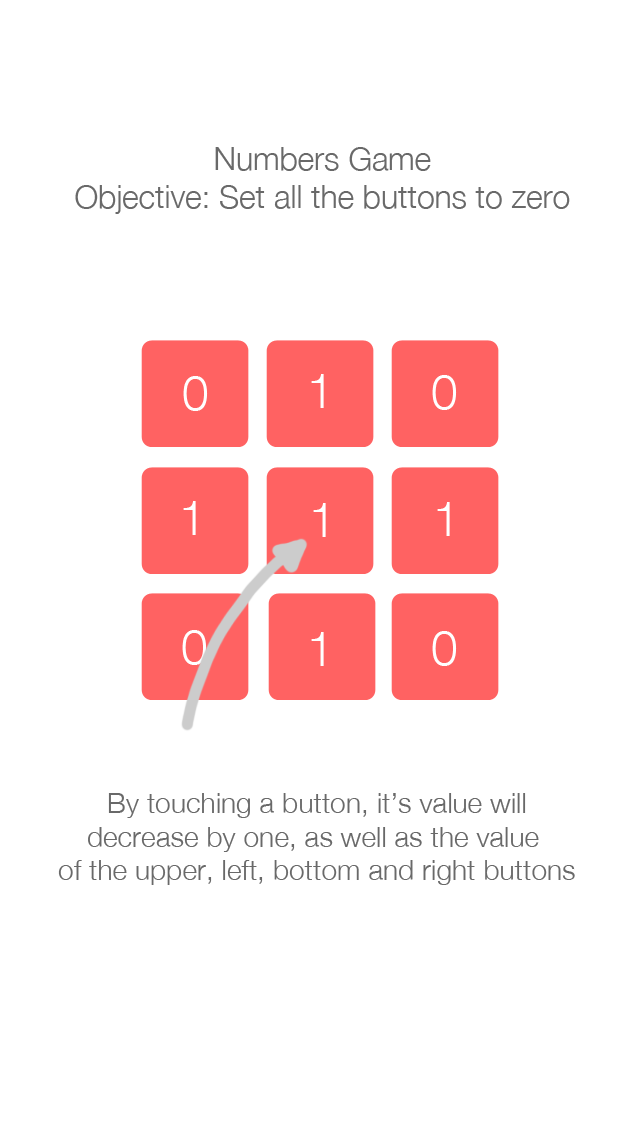
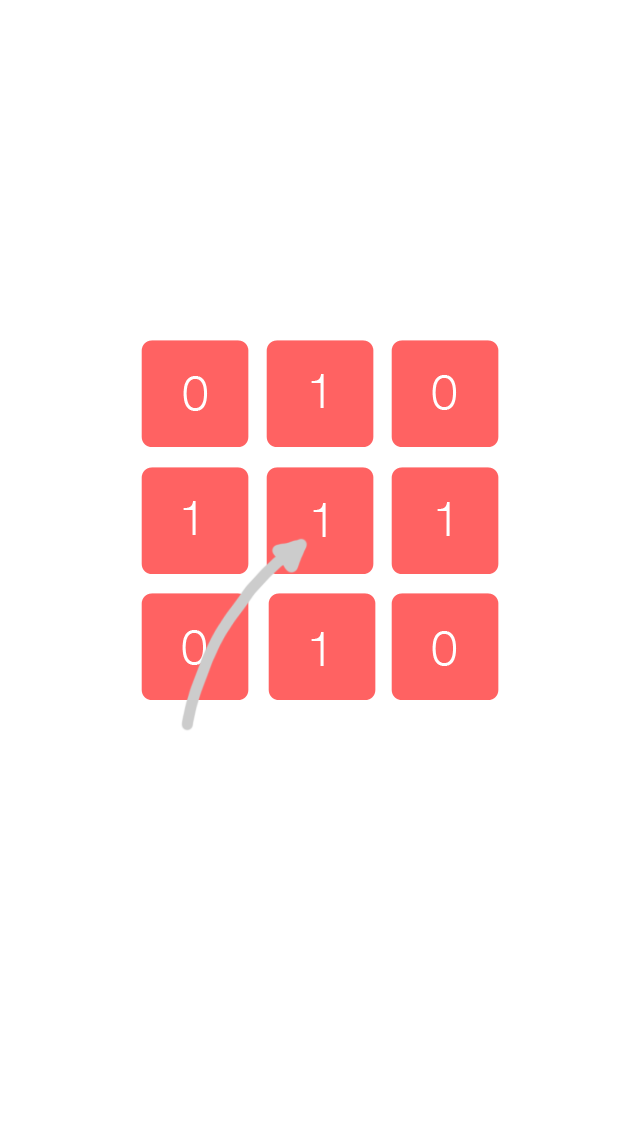
//Se modificaron los strings del tutorial. //Commit para empezar a agregar localización a la app

Changed region(s): [[0.0938, 0.6778, 0.875, 0.7702], [0.3125, 0.1232, 0.875, 0.1849], [0.125, 0.154, 0.3125, 0.1849]]

diff --git a/NumeroLoco/ChaptersViewController.m b/NumeroLoco/ChaptersViewController.m
@@ -35,6 +35,7 @@
     CGRect screenBounds;
     NSUInteger numberOfChapters;
     NSUInteger selectedGame;
+    NSUInteger lastChapterUnlocked;
     BOOL isPad;
 }
 
@@ -87,6 +88,11 @@
     if (!_chaptersGamesFinishedArray) {
         FileSaver *fileSaver = [[FileSaver alloc] init];
         _chaptersGamesFinishedArray = [fileSaver getDictionary:@"NumberChaptersDic"][@"NumberChaptersArray"];
+    }
+    for (int i = 0; i < [_chaptersGamesFinishedArray count]; i++) {
+        if ([_chaptersGamesFinishedArray[i] count] > 0) {
+            lastChapterUnlocked = i + 1;
+        }
     }
     return _chaptersGamesFinishedArray;
 }
@@ -199,14 +205,16 @@
 }
 
 -(UICollectionViewCell *)collectionView:(UICollectionView *)collectionView cellForItemAtIndexPath:(NSIndexPath *)indexPath {
-    NSLog(@"Index path %ld", (long)indexPath.item);
+    //NSLog(@"Index path %ld", (long)indexPath.item);
     ChaptersCell *cell = (ChaptersCell *)[collectionView dequeueReusableCellWithReuseIdentifier:@"CellIdentifier" forIndexPath:indexPath];
     cell.backgroundColor = [[AppInfo sharedInstance] appColorsArray][indexPath.item];
     cell.chapterNameLabel.text = self.chaptersNamesArray[indexPath.item];
     cell.chapterNameLabel.textColor = [UIColor whiteColor];
     cell.delegate = self;
-    NSLog(@"juegos ganados en este capítulo: %lu", (unsigned long)[self.chaptersGamesFinishedArray[indexPath.item] count]);
+    //NSLog(@"juegos ganados en este capítulo: %lu", (unsigned long)[self.chaptersGamesFinishedArray[indexPath.item] count]);
     NSArray *gamesFinishedArray = self.chaptersGamesFinishedArray[indexPath.item];
+    NSUInteger lastGameWon = [[gamesFinishedArray lastObject] intValue];
+    NSLog(@"Last game won: %lu", (unsigned long)lastGameWon);
     
     if ([gamesFinishedArray containsObject:@1]) {
         //NSString *labelString = [NSString stringWithFormat:@"Score: %d/%d", [self.coreDataScores[indexPath.item][0] intValue],[self.gamesDataArray[indexPath.item][0][@"maxScore"] intValue]];
@@ -215,6 +223,17 @@
         cell.button1.layer.borderColor = ((UIColor *)[[AppInfo sharedInstance] appColorsArray][indexPath.item]).CGColor;
         cell.button1.backgroundColor = [UIColor whiteColor];
         [cell.button1 setTitleColor:[[AppInfo sharedInstance] appColorsArray][indexPath.item] forState:UIControlStateNormal];
+        if (lastGameWon == 1 && lastChapterUnlocked == indexPath.item + 1) {
+            cell.button1.layer.borderWidth = 2.0;
+            cell.button1.layer.borderColor = [UIColor yellowColor].CGColor;
+            cell.button1.backgroundColor = [UIColor clearColor];
+            [cell.button1 setTitleColor:[UIColor whiteColor] forState:UIControlStateNormal];
+        } else {
+            //cell.button1.layer.borderWidth = 1.0;
+            cell.button1.layer.borderColor = ((UIColor *)[[AppInfo sharedInstance] appColorsArray][indexPath.item]).CGColor;
+            cell.button1.backgroundColor = [UIColor whiteColor];
+            [cell.button1 setTitleColor:[[AppInfo sharedInstance] appColorsArray][indexPath.item] forState:UIControlStateNormal];
+        }
 
     } else {
         //NSString *labelString = [NSString stringWithFormat:@"Score: 0/%d", [self.gamesDataArray[indexPath.item][0][@"maxScore"] intValue]];
@@ -232,6 +251,18 @@
         cell.button2.layer.borderColor = ((UIColor *)[[AppInfo sharedInstance] appColorsArray][indexPath.item]).CGColor;
         cell.button2.backgroundColor = [UIColor whiteColor];
         [cell.button2 setTitleColor:[[AppInfo sharedInstance] appColorsArray][indexPath.item] forState:UIControlStateNormal];
+        if (lastGameWon == 2 && lastChapterUnlocked == indexPath.item + 1) {
+            cell.button2.layer.borderWidth = 2.0;
+            cell.button2.layer.borderColor = [UIColor yellowColor].CGColor;
+            cell.button2.backgroundColor = [UIColor clearColor];
+            [cell.button2 setTitleColor:[UIColor whiteColor] forState:UIControlStateNormal];
+        }  else {
+            //cell.button2.layer.borderWidth = 1.0;
+            cell.button2.layer.borderColor = ((UIColor *)[[AppInfo sharedInstance] appColorsArray][indexPath.item]).CGColor;
+            cell.button2.backgroundColor = [UIColor whiteColor];
+            [cell.button2 setTitleColor:[[AppInfo sharedInstance] appColorsArray][indexPath.item] forState:UIControlStateNormal];
+        }
+        
     } else {
         //NSString *labelString = [NSString stringWithFormat:@"Score: 0/%d", [self.gamesDataArray[indexPath.item][1][@"maxScore"] intValue]];
         //cell.label2.text = labelString;
@@ -248,6 +279,18 @@
         cell.button3.layer.borderColor = ((UIColor *)[[AppInfo sharedInstance] appColorsArray][indexPath.item]).CGColor;
         cell.button3.backgroundColor = [UIColor whiteColor];
         [cell.button3 setTitleColor:[[AppInfo sharedInstance] appColorsArray][indexPath.item] forState:UIControlStateNormal];
+        if (lastGameWon == 3 && lastChapterUnlocked == indexPath.item + 1) {
+            cell.button3.layer.borderWidth = 2.0;
+            cell.button3.layer.borderColor = [UIColor yellowColor].CGColor;
+            cell.button3.backgroundColor = [UIColor clearColor];
+            [cell.button3 setTitleColor:[UIColor whiteColor] forState:UIControlStateNormal];
+        } else {
+            //cell.button3.layer.borderWidth = 1.0;
+            cell.button3.layer.borderColor = ((UIColor *)[[AppInfo sharedInstance] appColorsArray][indexPath.item]).CGColor;
+            cell.button3.backgroundColor = [UIColor whiteColor];
+            [cell.button3 setTitleColor:[[AppInfo sharedInstance] appColorsArray][indexPath.item] forState:UIControlStateNormal];
+        }
+        
     } else {
         //NSString *labelString = [NSString stringWithFormat:@"Score: 0/%d", [self.gamesDataArray[indexPath.item][2][@"maxScore"] intValue]];
         //cell.label3.text = labelString;
@@ -264,6 +307,18 @@
         cell.button4.layer.borderColor = ((UIColor *)[[AppInfo sharedInstance] appColorsArray][indexPath.item]).CGColor;
         cell.button4.backgroundColor = [UIColor whiteColor];
         [cell.button4 setTitleColor:[[AppInfo sharedInstance] appColorsArray][indexPath.item] forState:UIControlStateNormal];
+        if (lastGameWon == 4 && lastChapterUnlocked == indexPath.item + 1) {
+            cell.button4.layer.borderWidth = 2.0;
+            cell.button4.layer.borderColor = [UIColor yellowColor].CGColor;
+            cell.button4.backgroundColor = [UIColor clearColor];
+            [cell.button4 setTitleColor:[UIColor whiteColor] forState:UIControlStateNormal];
+        }  else {
+            //cell.button4.layer.borderWidth = 1.0;
+            cell.button4.layer.borderColor = ((UIColor *)[[AppInfo sharedInstance] appColorsArray][indexPath.item]).CGColor;
+            cell.button4.backgroundColor = [UIColor whiteColor];
+            [cell.button4 setTitleColor:[[AppInfo sharedInstance] appColorsArray][indexPath.item] forState:UIControlStateNormal];
+        }
+        
     } else {
         //NSString *labelString = [NSString stringWithFormat:@"Score: 0/%d", [self.gamesDataArray[indexPath.item][3][@"maxScore"] intValue]];
         //cell.label4.text = labelString;
@@ -280,6 +335,18 @@
         cell.button5.layer.borderColor = ((UIColor *)[[AppInfo sharedInstance] appColorsArray][indexPath.item]).CGColor;
         cell.button5.backgroundColor = [UIColor whiteColor];
         [cell.button5 setTitleColor:[[AppInfo sharedInstance] appColorsArray][indexPath.item] forState:UIControlStateNormal];
+        if (lastGameWon == 5 && lastChapterUnlocked == indexPath.item + 1) {
+            cell.button5.layer.borderWidth = 2.0;
+            cell.button5.layer.borderColor = [UIColor yellowColor].CGColor;
+            cell.button5.backgroundColor = [UIColor clearColor];
+            [cell.button5 setTitleColor:[UIColor whiteColor] forState:UIControlStateNormal];
+        }  else {
+            //cell.button5.layer.borderWidth = 1.0;
+            cell.button5.layer.borderColor = ((UIColor *)[[AppInfo sharedInstance] appColorsArray][indexPath.item]).CGColor;
+            cell.button5.backgroundColor = [UIColor whiteColor];
+            [cell.button5 setTitleColor:[[AppInfo sharedInstance] appColorsArray][indexPath.item] forState:UIControlStateNormal];
+        }
+        
     } else {
         //NSString *labelString = [NSString stringWithFormat:@"Score: 0/%d", [self.gamesDataArray[indexPath.item][4][@"maxScore"] intValue]];
         //cell.label5.text = labelString;
@@ -287,7 +354,7 @@
         cell.button5.backgroundColor = [UIColor clearColor];
         cell.button5.layer.borderColor = [UIColor whiteColor].CGColor;
         [cell.button5 setTitleColor:[UIColor whiteColor] forState:UIControlStateNormal];
-    }
+    } 
     
     if ([gamesFinishedArray containsObject:@6]) {
         //NSString *labelString = [NSString stringWithFormat:@"Score: %d/%d", [self.coreDataScores[indexPath.item][5] intValue],[self.gamesDataArray[indexPath.item][5][@"maxScore"] intValue]];
@@ -296,6 +363,18 @@
         cell.button6.layer.borderColor = ((UIColor *)[[AppInfo sharedInstance] appColorsArray][indexPath.item]).CGColor;
         cell.button6.backgroundColor = [UIColor whiteColor];
         [cell.button6 setTitleColor:[[AppInfo sharedInstance] appColorsArray][indexPath.item] forState:UIControlStateNormal];
+        if (lastGameWon == 6 && lastChapterUnlocked == indexPath.item + 1) {
+            cell.button6.layer.borderWidth = 2.0;
+            cell.button6.layer.borderColor = [UIColor yellowColor].CGColor;
+            cell.button6.backgroundColor = [UIColor clearColor];
+            [cell.button6 setTitleColor:[UIColor whiteColor] forState:UIControlStateNormal];
+        }  else {
+            //cell.button6.layer.borderWidth = 1.0;
+            cell.button6.layer.borderColor = ((UIColor *)[[AppInfo sharedInstance] appColorsArray][indexPath.item]).CGColor;
+            cell.button6.backgroundColor = [UIColor whiteColor];
+            [cell.button6 setTitleColor:[[AppInfo sharedInstance] appColorsArray][indexPath.item] forState:UIControlStateNormal];
+        }
+        
     } else {
         //NSString *labelString = [NSString stringWithFormat:@"Score: 0/%d", [self.gamesDataArray[indexPath.item][5][@"maxScore"] intValue]];
         //cell.label6.text = labelString;
@@ -312,6 +391,18 @@
         cell.button7.layer.borderColor = ((UIColor *)[[AppInfo sharedInstance] appColorsArray][indexPath.item]).CGColor;
         cell.button7.backgroundColor = [UIColor whiteColor];
         [cell.button7 setTitleColor:[[AppInfo sharedInstance] appColorsArray][indexPath.item] forState:UIControlStateNormal];
+        if (lastGameWon == 7 && lastChapterUnlocked == indexPath.item + 1) {
+            cell.button7.layer.borderWidth = 2.0;
+            cell.button7.layer.borderColor = [UIColor yellowColor].CGColor;
+            cell.button7.backgroundColor = [UIColor clearColor];
+            [cell.button7 setTitleColor:[UIColor whiteColor] forState:UIControlStateNormal];
+        }  else {
+            //cell.button7.layer.borderWidth = 1.0;
+            cell.button7.layer.borderColor = ((UIColor *)[[AppInfo sharedInstance] appColorsArray][indexPath.item]).CGColor;
+            cell.button7.backgroundColor = [UIColor whiteColor];
+            [cell.button7 setTitleColor:[[AppInfo sharedInstance] appColorsArray][indexPath.item] forState:UIControlStateNormal];
+        }
+        
     } else {
         //NSString *labelString = [NSString stringWithFormat:@"Score: 0/%d", [self.gamesDataArray[indexPath.item][6][@"maxScore"] intValue]];
         //cell.label7.text = labelString;
@@ -328,6 +419,18 @@
         cell.button8.layer.borderColor = ((UIColor *)[[AppInfo sharedInstance] appColorsArray][indexPath.item]).CGColor;
         cell.button8.backgroundColor = [UIColor whiteColor];
         [cell.button8 setTitleColor:[[AppInfo sharedInstance] appColorsArray][indexPath.item] forState:UIControlStateNormal];
+        if (lastGameWon == 8 && lastChapterUnlocked == indexPath.item + 1) {
+            cell.button8.layer.borderWidth = 2.0;
+            cell.button8.layer.borderColor = [UIColor yellowColor].CGColor;
+            cell.button8.backgroundColor = [UIColor clearColor];
+            [cell.button8 setTitleColor:[UIColor whiteColor] forState:UIControlStateNormal];
+        }  else {
+            //cell.button8.layer.borderWidth = 1.0;
+            cell.button8.layer.borderColor = ((UIColor *)[[AppInfo sharedInstance] appColorsArray][indexPath.item]).CGColor;
+            cell.button8.backgroundColor = [UIColor whiteColor];
+            [cell.button8 setTitleColor:[[AppInfo sharedInstance] appColorsArray][indexPath.item] forState:UIControlStateNormal];
+        }
+        
     } else {
         //NSString *labelString = [NSString stringWithFormat:@"Score: 0/%d", [self.gamesDataArray[indexPath.item][7][@"maxScore"] intValue]];
         //cell.label8.text = labelString;
@@ -344,6 +447,18 @@
         cell.button9.layer.borderColor = ((UIColor *)[[AppInfo sharedInstance] appColorsArray][indexPath.item]).CGColor;
         cell.button9.backgroundColor = [UIColor whiteColor];
         [cell.button9 setTitleColor:[[AppInfo sharedInstance] appColorsArray][indexPath.item] forState:UIControlStateNormal];
+        if (lastGameWon == 9 && lastChapterUnlocked == indexPath.item + 1) {
+            cell.button9.layer.borderWidth = 2.0;
+            cell.button9.layer.borderColor = [UIColor yellowColor].CGColor;
+            cell.button9.backgroundColor = [UIColor clearColor];
+            [cell.button9 setTitleColor:[UIColor whiteColor] forState:UIControlStateNormal];
+        } else {
+            //cell.button9.layer.borderWidth = 1.0;
+            cell.button9.layer.borderColor = ((UIColor *)[[AppInfo sharedInstance] appColorsArray][indexPath.item]).CGColor;
+            cell.button9.backgroundColor = [UIColor whiteColor];
+            [cell.button9 setTitleColor:[[AppInfo sharedInstance] appColorsArray][indexPath.item] forState:UIControlStateNormal];
+        }
+        
     } else {
         //NSString *labelString = [NSString stringWithFormat:@"Score: 0/%d", [self.gamesDataArray[indexPath.item][8][@"maxScore"] intValue]];
         //cell.label9.text = labelString;
@@ -354,6 +469,19 @@
     }
     
     return cell;
+}
+
+-(void)createViewInsideButton:(UIButton *)button {
+    UIView *view = [[UIView alloc] initWithFrame:CGRectMake(0.0, 0.0, 10.0, 10.0)];
+    view.layer.cornerRadius = view.frame.size.width/2.0;
+    view.backgroundColor = [UIColor whiteColor];
+    view.tag = 100;
+    [button addSubview:view];
+}
+
+-(void)deleteViewInsideButton:(UIButton *)button {
+    UIView *view = [button viewWithTag:100];
+    [view removeFromSuperview];
 }
 
 #pragma mark - Sounds 

diff --git a/NumeroLoco/FourthPageViewController.m b/NumeroLoco/FourthPageViewController.m
@@ -110,7 +110,7 @@
     } else {
         self.textView = [[UITextView alloc] initWithFrame:CGRectMake(30.0, 50.0, self.view.bounds.size.width - 60.0, 110.0)];
     }
-    self.textView.text = @"Colors Game\nObjective: Set all buttons to white color. Everytime you touch a button, it's color will become whiter.";
+    self.textView.text = @"Colors Game\nObjective: Set all buttons to white.\n Every time you touch a button, its color will become lighter.";
     self.textView.textColor = [UIColor darkGrayColor];
     self.textView.font = [UIFont fontWithName:@"HelveticaNeue-Light" size:fontSize];
     self.textView.userInteractionEnabled = NO;
@@ -145,7 +145,7 @@
 
 -(void)showFirstAlert {
     TutorialAlertView *tutorialAlert = [[TutorialAlertView alloc] initWithFrame:CGRectMake(self.view.bounds.size.width/2.0 - 140.0, 20.0, 280.0, 200.0)];
-    tutorialAlert.textView.text = @"You won! As well as in the numbers game, when you touch a button, you also affect the upper,left, bottom and right buttons. Let's practice again!";
+    tutorialAlert.textView.text = @"You won! Just like in the numbers game, when you touch a button, you also affect the upper, left, bottom and right buttons. Let's practice again!";
     tutorialAlert.tag = 1;
     tutorialAlert.delegate = self;
     [tutorialAlert showInView:self.view];
@@ -202,7 +202,7 @@
 
 -(void)showSecondAlert {
     TutorialAlertView *tutorialAlert = [[TutorialAlertView alloc] initWithFrame:CGRectMake(self.view.bounds.size.width/2.0 - 140.0, 20.0, 280.0, 200.0)];
-    tutorialAlert.textView.text = @"Excellent! You're becoming a Cross master!. \n\nLet's practice one last time!";
+    tutorialAlert.textView.text = @"Excellent! You're becoming a Cross master! \n\nLet's practice one last time!";
     tutorialAlert.tag = 2;
     tutorialAlert.delegate = self;
     [tutorialAlert showInView:self.view];
@@ -233,7 +233,7 @@
 
 -(void)showFinalAlert {
     TutorialAlertView *tutorialAlert = [[TutorialAlertView alloc] initWithFrame:CGRectMake(self.view.bounds.size.width/2.0 - 140.0, 20.0, 280.0, 260.0)];
-    tutorialAlert.textView.text = @"Congratulations! You have completed the tutorial! Start playing!\n\n *General Tip: If you affect a button that is already white (or has a value of zero, in the case of the numbers game), it will get colorized again";
+    tutorialAlert.textView.text = @"Congratulations! You have completed the tutorial! Start playing!\n\n *General Tip: If you affect a button that is already white (or has a value of zero, in the case of the numbers game), it will turn back to its original color";
     tutorialAlert.tag = 3;
     tutorialAlert.delegate = self;
     [tutorialAlert showInView:self.view];

diff --git a/NumeroLoco/SecondPageTutViewController.m b/NumeroLoco/SecondPageTutViewController.m
@@ -27,6 +27,24 @@
     tutorialImageView.contentMode = UIViewContentModeScaleAspectFit;
     [self.view addSubview:tutorialImageView];
     
+    UILabel *titleLabel = [[UILabel alloc] initWithFrame:CGRectMake(self.view.bounds.size.width/2.0 - 120.0, 50.0, 240.0, 100.0)];
+    titleLabel.text = @"Numbers Game\nObjective: Set all the buttons to zero";
+    titleLabel.textAlignment = NSTextAlignmentCenter;
+    titleLabel.font = [UIFont fontWithName:@"HelveticaNeue-Light" size:15.0];
+    titleLabel.numberOfLines = 0;
+    titleLabel.textColor = [UIColor darkGrayColor];
+    [self.view addSubview:titleLabel];
+    
+    //other label
+    UILabel *descriptionLabel = [[UILabel alloc] initWithFrame:CGRectMake(self.view.bounds.size.width/2.0 - 130.0, self.view.bounds.size.height - 190.0, 260.0, 100.0)];
+    descriptionLabel.text = @"By touching a button, its value will decrease by one, as well as the value of the upper, left, bottom and right buttons";
+    descriptionLabel.textAlignment = NSTextAlignmentCenter;
+    descriptionLabel.numberOfLines = 0;
+    descriptionLabel.font = [UIFont fontWithName:@"HelveticaNeue-Light" size:15.0];
+    descriptionLabel.textColor = [UIColor darkGrayColor];
+    [self.view addSubview:descriptionLabel];
+
+    
     //Close button
     UIButton *closeButton = [[UIButton alloc] initWithFrame:CGRectMake(10.0, 10.0, 30.0, 30.0)];
     [closeButton setTitle:@"✕" forState:UIControlStateNormal];

diff --git a/NumeroLoco/ThirdPageTutViewController.m b/NumeroLoco/ThirdPageTutViewController.m
@@ -90,7 +90,7 @@
     
     //Textview setup
     self.textView = [[UITextView alloc] initWithFrame:CGRectMake(40.0, 45.0, self.view.bounds.size.width - 80.0, 120.0)];
-    self.textView.text = @"Let's practice! remember, when you touch a button, it's value will decrease by one, as well as the value of the upper, left, bottom and right button.";
+    self.textView.text = @"Let's practice! Remember, when you touch a button, its value will decrease by one, as well as the value of the upper, left, bottom and right button.";
     self.textView.textColor = [UIColor darkGrayColor];
     self.textView.font = [UIFont fontWithName:@"HelveticaNeue-Light" size:fontSize];
     self.textView.textAlignment = NSTextAlignmentCenter;
@@ -197,7 +197,7 @@
     TutorialAlertView *tutorialAlert = [[TutorialAlertView alloc] initWithFrame:CGRectMake(screenBounds.size.width/2.0 - 140.0, 20.0, 280.0, 200.0)];
     tutorialAlert.tag = 2;
     tutorialAlert.delegate = self;
-    tutorialAlert.textView.text = @"Excellent!\nBecause in this case there weren't upper and left buttons, the buttons that you affected were the right and bottom ones. Let's practice one last time!";
+    tutorialAlert.textView.text = @"Excellent!\nBecause in this case there weren't upper and left buttons, the buttons that you changed were the right and bottom ones. Let's practice one last time!";
     [tutorialAlert showInView:self.view];
 }
 

diff --git a/NumeroLoco/LoginViewController.m b/NumeroLoco/LoginViewController.m
@@ -59,7 +59,7 @@
     UIButton *enterButton = [UIButton buttonWithType:UIButtonTypeSystem];
     enterButton.frame = CGRectMake(self.view.bounds.size.width/2.0 - 90, screenBounds.size.height - 60.0, 180.0, 50.0);
     [enterButton setTitleColor:[UIColor whiteColor] forState:UIControlStateNormal];
-    [enterButton setTitle:@"Don't Login" forState:UIControlStateNormal];
+    [enterButton setTitle:NSLocalizedString(@"Don't Login", @"Button to enter without login") forState:UIControlStateNormal];
     enterButton.titleLabel.font = [UIFont fontWithName:@"HelveticaNeue-Light" size:15.0];
     enterButton.layer.cornerRadius = 10.0;
     enterButton.layer.borderColor = [UIColor whiteColor].CGColor;
@@ -69,7 +69,7 @@
     
     //Facebook button
     UIButton *facebookButton = [[UIButton alloc]initWithFrame:CGRectOffset(enterButton.frame, 0.0, -(enterButton.frame.size.height + 10.0))];
-    [facebookButton setTitle:@"Login With Facebook" forState:UIControlStateNormal];
+    [facebookButton setTitle:NSLocalizedString(@"Login With Facebook", @"Button to enter with facebook") forState:UIControlStateNormal];
     [facebookButton addTarget:self action:@selector(startLoginProcess) forControlEvents:UIControlEventTouchUpInside];
     facebookButton.layer.cornerRadius = 10.0;
     facebookButton.titleLabel.font = [UIFont fontWithName:@"HelveticaNeue-Light" size:15.0];

diff --git a/NumeroLoco/FirstPageTutViewController.m b/NumeroLoco/FirstPageTutViewController.m
@@ -27,6 +27,23 @@
     tutorialImageView.contentMode = UIViewContentModeScaleAspectFit;
     [self.view addSubview:tutorialImageView];
     
+    UILabel *titleLabel = [[UILabel alloc] initWithFrame:CGRectMake(self.view.bounds.size.width/2.0 - 120.0, 50.0, 240.0, 100.0)];
+    titleLabel.text = @"Welcome to Cross, a simple, yet addictive game!";
+    titleLabel.textAlignment = NSTextAlignmentCenter;
+    titleLabel.font = [UIFont fontWithName:@"HelveticaNeue-Light" size:15.0];
+    titleLabel.numberOfLines = 0;
+    titleLabel.textColor = [UIColor darkGrayColor];
+    [self.view addSubview:titleLabel];
+    
+    //other label
+    UILabel *descriptionLabel = [[UILabel alloc] initWithFrame:CGRectMake(self.view.bounds.size.width/2.0 - 120.0, self.view.bounds.size.height - 180.0, 240.0, 100.0)];
+    descriptionLabel.text = @"There are two types of games: Numbers and Colors";
+    descriptionLabel.textAlignment = NSTextAlignmentCenter;
+    descriptionLabel.numberOfLines = 0;
+    descriptionLabel.font = [UIFont fontWithName:@"HelveticaNeue-Light" size:15.0];
+    descriptionLabel.textColor = [UIColor darkGrayColor];
+    [self.view addSubview:descriptionLabel];
+    
     //Close button
     UIButton *closeButton = [[UIButton alloc] initWithFrame:CGRectMake(10.0, 10.0, 30.0, 30.0)];
     [closeButton setTitle:@"✕" forState:UIControlStateNormal];

diff --git a/NumeroLoco/ChaptersCell.h b/NumeroLoco/ChaptersCell.h
@@ -40,4 +40,5 @@
 @property (strong, nonatomic) UILabel *label8;
 @property (strong, nonatomic) UILabel *label9;
 
+
 @end
